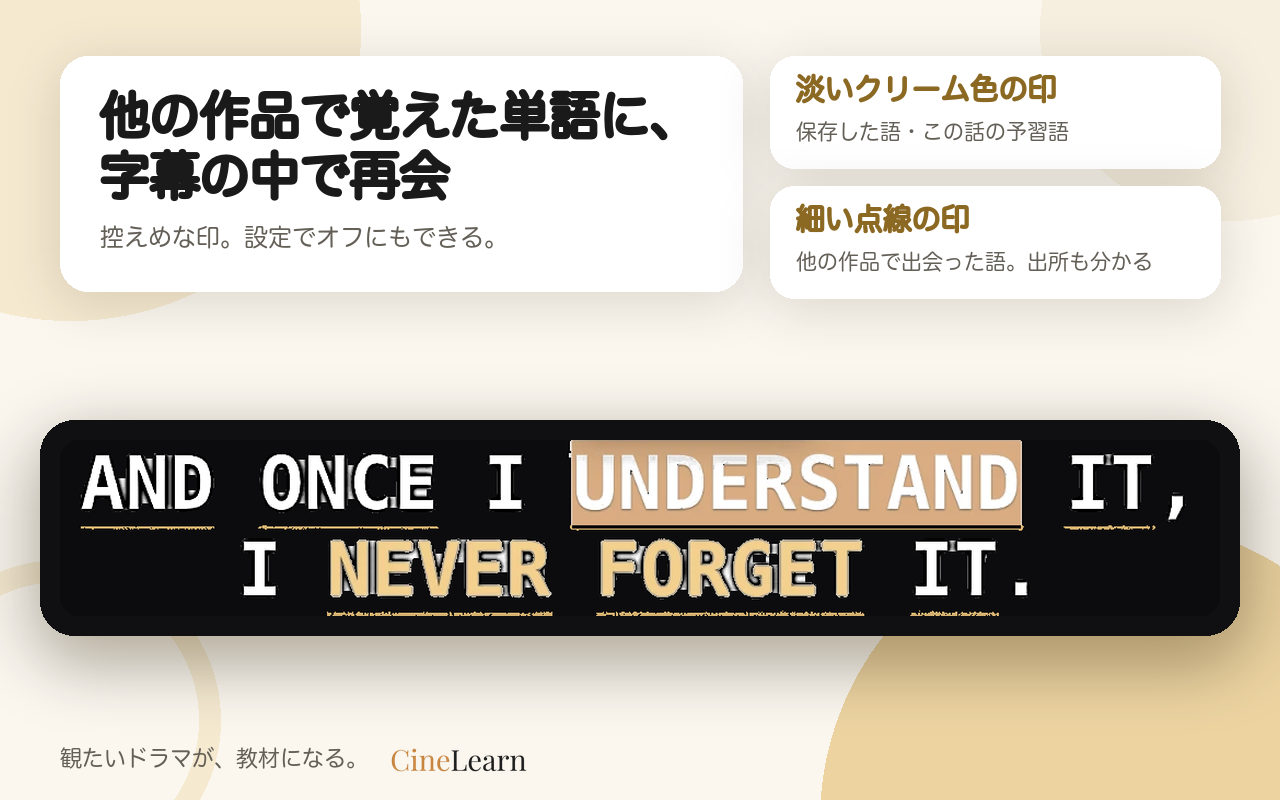
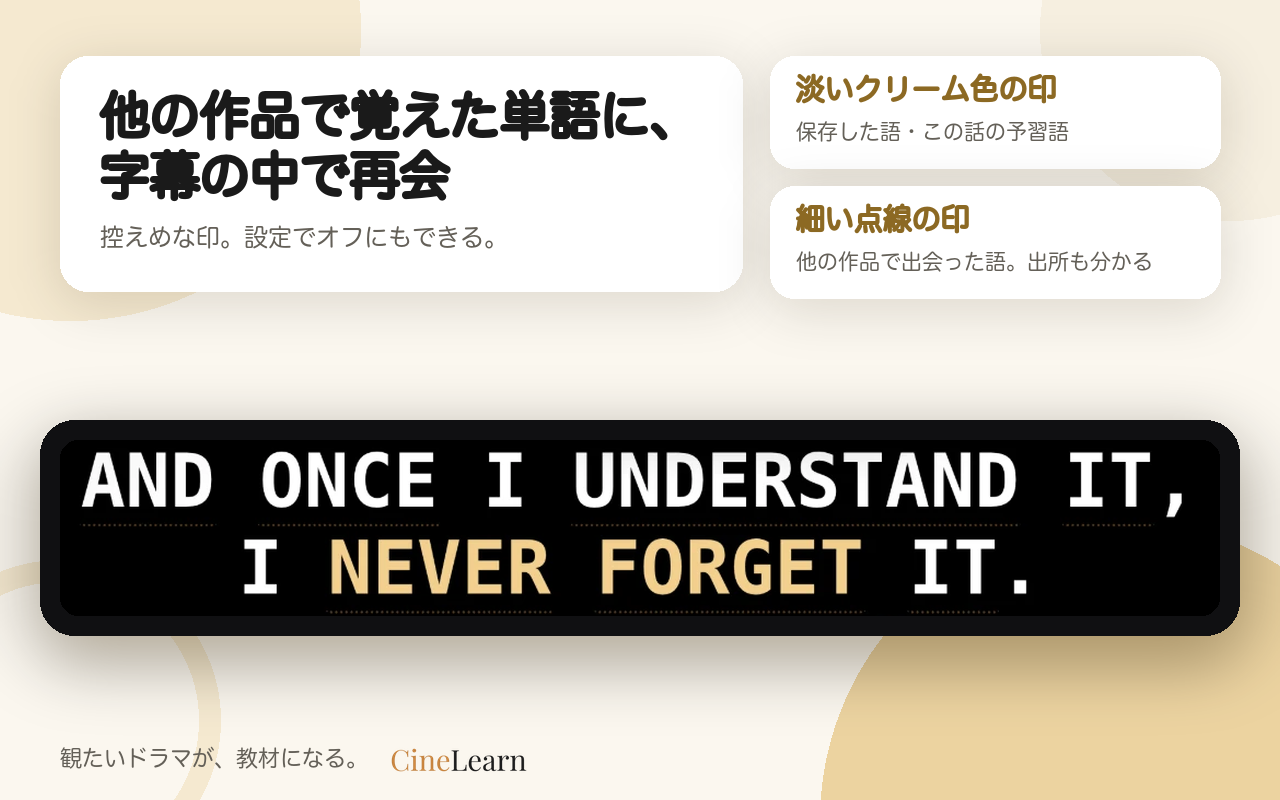
marketing: v1.2.12 のストア画像 A2・A4 をオーナーが暗い場面で撮り直した写真で作り直し（2026-11-08）
- src/extension-popup-star-v1.2.12.png を撮り直しの写真に差し替え（再生バー・作品名・操作部は元画像の段階で切り落とし）
- 白い背景を黒く塗る加工（darken_popup_bg.py と -dark.png）は不要になったので削除
- A2 はポップアップと字幕2行が収まるようパネルを縮め、A4 は字幕2行（印と点線）

diff --git a/marketing/x-launch-2026-10/make_cards.py b/marketing/x-launch-2026-10/make_cards.py
@@ -167,7 +167,7 @@ def make_cws():
     # A2 字幕クリック→意味→保存（UI主役・映像なし）
     panel_card('字幕の単語を、\nクリックして保存','動画を止めなくていい。意味はマウスを乗せるだけ。',
         [('日本語の意味がすぐ出る','同梱の英和辞書・通信なし'),('「★ 覚えたい」で単語帳にも','✓ 保存はその話の単語リストへ')],
-        f'{A}/02-subtitle-click-save.png','extension-popup-star-v1.2.12-dark.png',(470,625,1530,1022),panel_y=318,panel_w=1000)  # v1.2.12: ★ありのポップアップ（オーナー実機 2026-11-08）。映像は配信側の保護で白く写るので、darken_popup_bg.py で背景を黒に（白い字幕を読めるように・オーナー依頼）
+        f'{A}/02-subtitle-click-save.png','extension-popup-star-v1.2.12.png',(470,628,1530,1146),panel_y=305,panel_w=816)  # v1.2.12: ★ありのポップアップ（オーナー実機 2026-11-08・暗い場面で撮り直し）
     # A3 予習画面
     shot_card('観る前に3分。\nこの話で覚えるべき語だけ','作品と話数を選ぶだけで、重要語のリストに。',
         [('基礎単語は自動でスキップ','覚えるべき語だけに絞る'),('予習・復習は学習アプリで','拡張で保存した語と同期')],
@@ -175,7 +175,7 @@ def make_cws():
     # A4 字幕マーカー（クリーム色＋点線）
     panel_card('他の作品で覚えた単語に、\n字幕の中で再会','控えめな印。設定でオフにもできる。',
         [('淡いクリーム色の印','保存した語・この話の予習語'),('細い点線の印','他の作品で出会った語。出所も分かる')],
-        f'{A}/04-subtitle-markers.png','extension-popup-star-v1.2.12-dark.png',(470,861,1530,1022),panel_y=420,panel_w=1160,chip_w=520)
+        f'{A}/04-subtitle-markers.png','extension-popup-star-v1.2.12.png',(470,985,1530,1146),panel_y=420,panel_w=1160,chip_w=520)
     # A5 復習カード（3段階採点）
     shot_card('忘れる前のタイミングで\n復習を提案','間隔反復（SM-2）。3段階で採点するだけ。',
         [('知ってた／うろ覚え／知らなかった','採点で次に出る間隔が変わる'),('例文はあのセリフ','出典つきで文脈ごと思い出す')],
